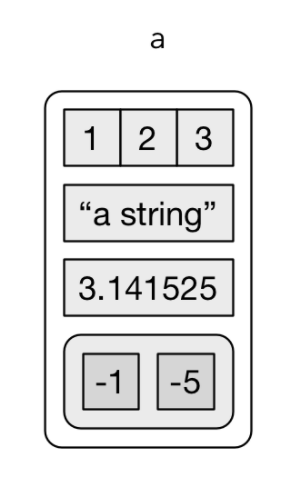
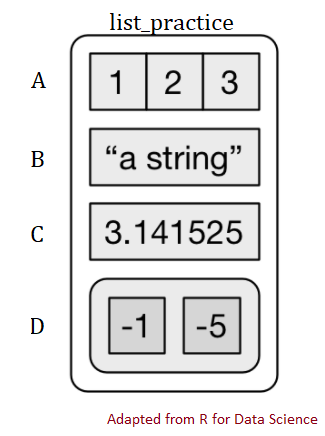
image fixes

Changed region(s): [[0.0891, 0.0298, 0.8614, 0.9243], [0.3267, 0.9541, 0.9802, 0.9839]]

diff --git a/Introduction-to-Map-Functions-in-R.html b/Introduction-to-Map-Functions-in-R.html
@@ -4,7 +4,7 @@
   <meta charset="utf-8">
   <meta name="generator" content="pandoc">
   <meta name="author" content="AS d’Urso" />
-  <meta name="dcterms.date" content="2021-04-19" />
+  <meta name="dcterms.date" content="2021-04-20" />
   <title>Introduction to Map Functions</title>
   <meta name="apple-mobile-web-app-capable" content="yes">
   <meta name="apple-mobile-web-app-status-bar-style" content="black-translucent">
@@ -519,7 +519,7 @@ document.getElementsByTagName('head')[0].appendChild(style);
 <section>
     <h1 class="title">Introduction to Map Functions</h1>
     <h2 class="author">AS d’Urso</h2>
-    <h3 class="date"><small>2021-04-19</small></h3>
+    <h3 class="date"><small>2021-04-20</small></h3>
 </section>
 
 <section id="introduction" class="title-slide slide level1">
@@ -560,14 +560,16 @@ document.getElementsByTagName('head')[0].appendChild(style);
 <span id="cb1-5"><a href="#cb1-5" aria-hidden="true" tabindex="-1"></a><span class="fu">class</span>(char_vec)</span>
 <span id="cb1-6"><a href="#cb1-6" aria-hidden="true" tabindex="-1"></a><span class="do">## [1] &quot;character&quot;</span></span></code></pre></div>
 <ul>
-<li class="fragment">But what if we mix the type of data in a vector?</li>
+<li class="fragment">But what if we include two different classes in one atomic vector?</li>
 </ul>
 </section>
 <section id="homogeneous-1" class="slide level2">
 <h2>Homogeneous</h2>
-<p>Mixing types of data yeild coercive results.</p>
-<div class="sourceCode" id="cb2"><pre class="sourceCode r"><code class="sourceCode r"><span id="cb2-1"><a href="#cb2-1" aria-hidden="true" tabindex="-1"></a><span class="fu">class</span>(<span class="fu">c</span>(<span class="st">&quot;a&quot;</span>, <span class="dv">1</span>, <span class="st">&quot;b&quot;</span>, <span class="dv">2</span>))</span>
-<span id="cb2-2"><a href="#cb2-2" aria-hidden="true" tabindex="-1"></a><span class="do">## [1] &quot;character&quot;</span></span></code></pre></div>
+<p>Mixing types of data yield coercive results.</p>
+<div class="sourceCode" id="cb2"><pre class="sourceCode r"><code class="sourceCode r"><span id="cb2-1"><a href="#cb2-1" aria-hidden="true" tabindex="-1"></a><span class="fu">c</span>(<span class="st">&quot;a&quot;</span>, <span class="dv">1</span>, <span class="st">&quot;b&quot;</span>, <span class="dv">2</span>)</span>
+<span id="cb2-2"><a href="#cb2-2" aria-hidden="true" tabindex="-1"></a><span class="do">## [1] &quot;a&quot; &quot;1&quot; &quot;b&quot; &quot;2&quot;</span></span>
+<span id="cb2-3"><a href="#cb2-3" aria-hidden="true" tabindex="-1"></a><span class="fu">class</span>(<span class="fu">c</span>(<span class="st">&quot;a&quot;</span>, <span class="dv">1</span>, <span class="st">&quot;b&quot;</span>, <span class="dv">2</span>))</span>
+<span id="cb2-4"><a href="#cb2-4" aria-hidden="true" tabindex="-1"></a><span class="do">## [1] &quot;character&quot;</span></span></code></pre></div>
 <ul>
 <li class="fragment">The vector is stored as a character vector</li>
 <li class="fragment">… <em>but why?</em></li>
@@ -666,9 +668,6 @@ document.getElementsByTagName('head')[0].appendChild(style);
 <span id="cb15-7"><a href="#cb15-7" aria-hidden="true" tabindex="-1"></a><span class="do">## </span></span>
 <span id="cb15-8"><a href="#cb15-8" aria-hidden="true" tabindex="-1"></a><span class="do">## [[3]]</span></span>
 <span id="cb15-9"><a href="#cb15-9" aria-hidden="true" tabindex="-1"></a><span class="do">## [1] 3</span></span></code></pre></div>
-<ul>
-<li class="fragment"><em>Practice: Try making a few lists of your own.</em></li>
-</ul>
 </section>
 <section id="lists-1" class="slide level2" data-transition="none-out">
 <h2 data-transition="none-out">Lists</h2>
@@ -693,12 +692,18 @@ document.getElementsByTagName('head')[0].appendChild(style);
 <aside class="notes">
 As you can see with this example, we can have different data classes and different lengths
 </aside>
+<ul>
+<li class="fragment"><em>Practice: Try making a few lists of your own.</em></li>
+</ul>
 </section>
 <section id="lists-structure" class="slide level2">
 <h2>Lists Structure</h2>
-<div class="sourceCode" id="cb18"><pre class="sourceCode r"><code class="sourceCode r"><span id="cb18-1"><a href="#cb18-1" aria-hidden="true" tabindex="-1"></a>a <span class="ot">&lt;-</span> <span class="fu">list</span>(<span class="at">a =</span> <span class="dv">1</span><span class="sc">:</span><span class="dv">3</span>, <span class="at">b =</span> <span class="st">&quot;a string&quot;</span>, <span class="at">c =</span> pi, <span class="at">d =</span> <span class="fu">list</span>(<span class="sc">-</span><span class="dv">1</span>, <span class="sc">-</span><span class="dv">5</span>))</span></code></pre></div>
+<div class="sourceCode" id="cb18"><pre class="sourceCode r"><code class="sourceCode r"><span id="cb18-1"><a href="#cb18-1" aria-hidden="true" tabindex="-1"></a>list_practice <span class="ot">&lt;-</span> <span class="fu">list</span>(<span class="at">a =</span> <span class="dv">1</span><span class="sc">:</span><span class="dv">3</span>, </span>
+<span id="cb18-2"><a href="#cb18-2" aria-hidden="true" tabindex="-1"></a>                      <span class="at">b =</span> <span class="st">&quot;a string&quot;</span>, </span>
+<span id="cb18-3"><a href="#cb18-3" aria-hidden="true" tabindex="-1"></a>                      <span class="at">c =</span> pi, </span>
+<span id="cb18-4"><a href="#cb18-4" aria-hidden="true" tabindex="-1"></a>                      <span class="at">d =</span> <span class="fu">list</span>(<span class="sc">-</span><span class="dv">1</span>, <span class="sc">-</span><span class="dv">5</span>))</span></code></pre></div>
 <center>
-<img data-src="Figures/a.png" alt="a" />
+<img data-src="Figures/a.png" width="300" alt="a" />
 </center>
 </section>
 <section id="indexing-lists" class="slide level2">
@@ -712,12 +717,12 @@ As you can see with this example, we can have different data classes and differe
 <section id="single-bracket" class="slide level2" data-transition="none-out">
 <h2 data-transition="none-out">Single bracket</h2>
 <p>Extracts a sub-list</p>
-<div class="sourceCode" id="cb19"><pre class="sourceCode r"><code class="sourceCode r"><span id="cb19-1"><a href="#cb19-1" aria-hidden="true" tabindex="-1"></a><span class="fu">str</span>(a[<span class="dv">1</span><span class="sc">:</span><span class="dv">2</span>])</span></code></pre></div>
+<div class="sourceCode" id="cb19"><pre class="sourceCode r"><code class="sourceCode r"><span id="cb19-1"><a href="#cb19-1" aria-hidden="true" tabindex="-1"></a><span class="fu">str</span>(list_practice[<span class="dv">1</span><span class="sc">:</span><span class="dv">2</span>])</span></code></pre></div>
 </section>
 <section id="single-bracket-1" class="slide level2" data-transition="none-in">
 <h2 data-transition="none-in">Single bracket</h2>
 <p>Extracts a sub-list</p>
-<div class="sourceCode" id="cb20"><pre class="sourceCode r"><code class="sourceCode r"><span id="cb20-1"><a href="#cb20-1" aria-hidden="true" tabindex="-1"></a><span class="fu">str</span>(a[<span class="dv">1</span><span class="sc">:</span><span class="dv">2</span>])</span>
+<div class="sourceCode" id="cb20"><pre class="sourceCode r"><code class="sourceCode r"><span id="cb20-1"><a href="#cb20-1" aria-hidden="true" tabindex="-1"></a><span class="fu">str</span>(list_practice[<span class="dv">1</span><span class="sc">:</span><span class="dv">2</span>])</span>
 <span id="cb20-2"><a href="#cb20-2" aria-hidden="true" tabindex="-1"></a><span class="do">## List of 2</span></span>
 <span id="cb20-3"><a href="#cb20-3" aria-hidden="true" tabindex="-1"></a><span class="do">##  $ a: int [1:3] 1 2 3</span></span>
 <span id="cb20-4"><a href="#cb20-4" aria-hidden="true" tabindex="-1"></a><span class="do">##  $ b: chr &quot;a string&quot;</span></span></code></pre></div>
@@ -728,12 +733,12 @@ As you can see with this example, we can have different data classes and differe
 <section id="double-bracket" class="slide level2" data-transition="none-out">
 <h2 data-transition="none-out">Double bracket</h2>
 <p>Extracts component from list</p>
-<div class="sourceCode" id="cb21"><pre class="sourceCode r"><code class="sourceCode r"><span id="cb21-1"><a href="#cb21-1" aria-hidden="true" tabindex="-1"></a><span class="fu">str</span>(a[[<span class="dv">1</span>]])</span></code></pre></div>
+<div class="sourceCode" id="cb21"><pre class="sourceCode r"><code class="sourceCode r"><span id="cb21-1"><a href="#cb21-1" aria-hidden="true" tabindex="-1"></a><span class="fu">str</span>(list_practice[[<span class="dv">1</span>]])</span></code></pre></div>
 </section>
 <section id="double-bracket-1" class="slide level2" data-transition="none-in">
 <h2 data-transition="none-in">Double bracket</h2>
 <p>Extracts component from list</p>
-<div class="sourceCode" id="cb22"><pre class="sourceCode r"><code class="sourceCode r"><span id="cb22-1"><a href="#cb22-1" aria-hidden="true" tabindex="-1"></a><span class="fu">str</span>(a[[<span class="dv">1</span>]])</span>
+<div class="sourceCode" id="cb22"><pre class="sourceCode r"><code class="sourceCode r"><span id="cb22-1"><a href="#cb22-1" aria-hidden="true" tabindex="-1"></a><span class="fu">str</span>(list_practice[[<span class="dv">1</span>]])</span>
 <span id="cb22-2"><a href="#cb22-2" aria-hidden="true" tabindex="-1"></a><span class="do">##  int [1:3] 1 2 3</span></span></code></pre></div>
 <ul>
 <li class="fragment">It removes a level of hierarchy</li>
@@ -742,21 +747,21 @@ As you can see with this example, we can have different data classes and differe
 <section id="named-element" class="slide level2" data-transition="none-out">
 <h2 data-transition="none-out">Named element</h2>
 <p>It works similarly to <code>[[]]</code>, but you must use the name of the element you are interested in (without quotation marks)</p>
-<div class="sourceCode" id="cb23"><pre class="sourceCode r"><code class="sourceCode r"><span id="cb23-1"><a href="#cb23-1" aria-hidden="true" tabindex="-1"></a>a<span class="sc">$</span>b</span>
+<div class="sourceCode" id="cb23"><pre class="sourceCode r"><code class="sourceCode r"><span id="cb23-1"><a href="#cb23-1" aria-hidden="true" tabindex="-1"></a>list_practice<span class="sc">$</span>b</span>
 <span id="cb23-2"><a href="#cb23-2" aria-hidden="true" tabindex="-1"></a><span class="do">## [1] &quot;a string&quot;</span></span>
-<span id="cb23-3"><a href="#cb23-3" aria-hidden="true" tabindex="-1"></a>a[[<span class="st">&quot;b&quot;</span>]]</span>
+<span id="cb23-3"><a href="#cb23-3" aria-hidden="true" tabindex="-1"></a>list_practice[[<span class="st">&quot;b&quot;</span>]]</span>
 <span id="cb23-4"><a href="#cb23-4" aria-hidden="true" tabindex="-1"></a><span class="do">## [1] &quot;a string&quot;</span></span></code></pre></div>
 </section>
 <section id="practice-5" class="slide level2" data-transition="none-out">
 <h2 data-transition="none-out">Practice</h2>
-<p>In our list, <code>a</code>, how would we subset to the first element in <code>d</code>?</p>
+<p>In our list, <code>list_practice</code>, how would we subset to the first element in <code>d</code>?</p>
 </section>
 <section id="practice-6" class="slide level2" data-transition="none-in">
 <h2 data-transition="none-in">Practice</h2>
-<p>In our list, <code>a</code>, how would we subset to the first element in <code>d</code>?</p>
-<div class="sourceCode" id="cb24"><pre class="sourceCode r"><code class="sourceCode r"><span id="cb24-1"><a href="#cb24-1" aria-hidden="true" tabindex="-1"></a>a<span class="sc">$</span>d[[<span class="dv">1</span>]]</span>
+<p>In our list, <code>list_practice</code>, how would we subset to the first element in <code>d</code>?</p>
+<div class="sourceCode" id="cb24"><pre class="sourceCode r"><code class="sourceCode r"><span id="cb24-1"><a href="#cb24-1" aria-hidden="true" tabindex="-1"></a>list_practice<span class="sc">$</span>d[[<span class="dv">1</span>]]</span>
 <span id="cb24-2"><a href="#cb24-2" aria-hidden="true" tabindex="-1"></a><span class="do">## [1] -1</span></span>
-<span id="cb24-3"><a href="#cb24-3" aria-hidden="true" tabindex="-1"></a>a[[<span class="dv">4</span>]][[<span class="dv">1</span>]]</span>
+<span id="cb24-3"><a href="#cb24-3" aria-hidden="true" tabindex="-1"></a>list_practice[[<span class="dv">4</span>]][[<span class="dv">1</span>]]</span>
 <span id="cb24-4"><a href="#cb24-4" aria-hidden="true" tabindex="-1"></a><span class="do">## [1] -1</span></span></code></pre></div>
 </section>
 <section id="indexing-lists-1" class="slide level2">
@@ -858,7 +863,10 @@ As you can see with this example, we can have different data classes and differe
 <li>Add two to each number</li>
 </ol>
 <p>Put last number in <code>$c</code> in the chat</p>
-<div class="sourceCode" id="cb33"><pre class="sourceCode r"><code class="sourceCode r"><span id="cb33-1"><a href="#cb33-1" aria-hidden="true" tabindex="-1"></a>map_practice <span class="ot">&lt;-</span> <span class="fu">list</span>(<span class="at">a =</span> <span class="fu">c</span>(<span class="dv">1</span><span class="sc">:</span><span class="dv">4</span>), <span class="at">b =</span> <span class="fu">c</span>(<span class="dv">5</span>, <span class="dv">7</span>, <span class="dv">8</span>), <span class="at">c =</span> <span class="fu">c</span>(<span class="dv">1902</span>, <span class="dv">1788</span>, <span class="dv">892</span>))</span></code></pre></div>
+<div class="sourceCode" id="cb33"><pre class="sourceCode r"><code class="sourceCode r"><span id="cb33-1"><a href="#cb33-1" aria-hidden="true" tabindex="-1"></a>map_practice <span class="ot">&lt;-</span> </span>
+<span id="cb33-2"><a href="#cb33-2" aria-hidden="true" tabindex="-1"></a>  <span class="fu">list</span>(<span class="at">a =</span> <span class="fu">c</span>(<span class="dv">1</span><span class="sc">:</span><span class="dv">4</span>), </span>
+<span id="cb33-3"><a href="#cb33-3" aria-hidden="true" tabindex="-1"></a>       <span class="at">b =</span> <span class="fu">c</span>(<span class="dv">5</span>, <span class="dv">7</span>, <span class="dv">8</span>), </span>
+<span id="cb33-4"><a href="#cb33-4" aria-hidden="true" tabindex="-1"></a>       <span class="at">c =</span> <span class="fu">c</span>(<span class="dv">1902</span>, <span class="dv">1788</span>, <span class="dv">892</span>))</span></code></pre></div>
 </section>
 <section id="practice-8" class="slide level2" data-transition="none-in">
 <h2 data-transition="none-in">Practice</h2>
@@ -868,29 +876,33 @@ As you can see with this example, we can have different data classes and differe
 <li>Add two to each number</li>
 </ol>
 <p>Put last number in <code>$c</code> in the chat</p>
-<div class="sourceCode" id="cb34"><pre class="sourceCode r"><code class="sourceCode r"><span id="cb34-1"><a href="#cb34-1" aria-hidden="true" tabindex="-1"></a>map_practice <span class="ot">&lt;-</span> <span class="fu">list</span>(<span class="at">a =</span> <span class="fu">c</span>(<span class="dv">1</span><span class="sc">:</span><span class="dv">4</span>), <span class="at">b =</span> <span class="fu">c</span>(<span class="dv">5</span>, <span class="dv">7</span>, <span class="dv">8</span>), <span class="at">c =</span> <span class="fu">c</span>(<span class="dv">1902</span>, <span class="dv">1788</span>, <span class="dv">892</span>))</span>
+<div class="sourceCode" id="cb34"><pre class="sourceCode r"><code class="sourceCode r"><span id="cb34-1"><a href="#cb34-1" aria-hidden="true" tabindex="-1"></a>map_practice2 <span class="ot">&lt;-</span> <span class="fu">map</span>(map_practice, sqrt)</span>
 <span id="cb34-2"><a href="#cb34-2" aria-hidden="true" tabindex="-1"></a></span>
-<span id="cb34-3"><a href="#cb34-3" aria-hidden="true" tabindex="-1"></a>map_practice2 <span class="ot">&lt;-</span> <span class="fu">map</span>(map_practice, sqrt)</span>
-<span id="cb34-4"><a href="#cb34-4" aria-hidden="true" tabindex="-1"></a></span>
-<span id="cb34-5"><a href="#cb34-5" aria-hidden="true" tabindex="-1"></a><span class="fu">map</span>(map_practice2, <span class="sc">~</span>.<span class="sc">+</span><span class="dv">2</span>)</span>
-<span id="cb34-6"><a href="#cb34-6" aria-hidden="true" tabindex="-1"></a><span class="do">## $a</span></span>
-<span id="cb34-7"><a href="#cb34-7" aria-hidden="true" tabindex="-1"></a><span class="do">## [1] 3.000000 3.414214 3.732051 4.000000</span></span>
-<span id="cb34-8"><a href="#cb34-8" aria-hidden="true" tabindex="-1"></a><span class="do">## </span></span>
-<span id="cb34-9"><a href="#cb34-9" aria-hidden="true" tabindex="-1"></a><span class="do">## $b</span></span>
-<span id="cb34-10"><a href="#cb34-10" aria-hidden="true" tabindex="-1"></a><span class="do">## [1] 4.236068 4.645751 4.828427</span></span>
-<span id="cb34-11"><a href="#cb34-11" aria-hidden="true" tabindex="-1"></a><span class="do">## </span></span>
-<span id="cb34-12"><a href="#cb34-12" aria-hidden="true" tabindex="-1"></a><span class="do">## $c</span></span>
-<span id="cb34-13"><a href="#cb34-13" aria-hidden="true" tabindex="-1"></a><span class="do">## [1] 45.61192 44.28475 31.86637</span></span></code></pre></div>
+<span id="cb34-3"><a href="#cb34-3" aria-hidden="true" tabindex="-1"></a><span class="fu">map</span>(map_practice2, <span class="sc">~</span>.<span class="sc">+</span><span class="dv">2</span>)</span>
+<span id="cb34-4"><a href="#cb34-4" aria-hidden="true" tabindex="-1"></a><span class="do">## $a</span></span>
+<span id="cb34-5"><a href="#cb34-5" aria-hidden="true" tabindex="-1"></a><span class="do">## [1] 3.000000 3.414214 3.732051 4.000000</span></span>
+<span id="cb34-6"><a href="#cb34-6" aria-hidden="true" tabindex="-1"></a><span class="do">## </span></span>
+<span id="cb34-7"><a href="#cb34-7" aria-hidden="true" tabindex="-1"></a><span class="do">## $b</span></span>
+<span id="cb34-8"><a href="#cb34-8" aria-hidden="true" tabindex="-1"></a><span class="do">## [1] 4.236068 4.645751 4.828427</span></span>
+<span id="cb34-9"><a href="#cb34-9" aria-hidden="true" tabindex="-1"></a><span class="do">## </span></span>
+<span id="cb34-10"><a href="#cb34-10" aria-hidden="true" tabindex="-1"></a><span class="do">## $c</span></span>
+<span id="cb34-11"><a href="#cb34-11" aria-hidden="true" tabindex="-1"></a><span class="do">## [1] 45.61192 44.28475 31.86637</span></span></code></pre></div>
 </section>
 <section id="map_if" class="slide level2" data-transition="none-out">
 <h2 data-transition="none-out"><code>map_if</code></h2>
-<div class="sourceCode" id="cb35"><pre class="sourceCode r"><code class="sourceCode r"><span id="cb35-1"><a href="#cb35-1" aria-hidden="true" tabindex="-1"></a>map_practice3 <span class="ot">&lt;-</span> <span class="fu">list</span>(<span class="at">a =</span> <span class="fu">c</span>(<span class="dv">1</span><span class="sc">:</span><span class="dv">4</span>), <span class="at">b =</span> <span class="fu">c</span>(<span class="dv">5</span>, <span class="dv">7</span>, <span class="dv">8</span>), <span class="at">c =</span> <span class="fu">c</span>(<span class="st">&quot;1902&quot;</span>, <span class="st">&quot;1788&quot;</span>, <span class="st">&quot;892&quot;</span>))</span></code></pre></div>
+<div class="sourceCode" id="cb35"><pre class="sourceCode r"><code class="sourceCode r"><span id="cb35-1"><a href="#cb35-1" aria-hidden="true" tabindex="-1"></a>map_practice3 <span class="ot">&lt;-</span> </span>
+<span id="cb35-2"><a href="#cb35-2" aria-hidden="true" tabindex="-1"></a>  <span class="fu">list</span>(<span class="at">a =</span> <span class="fu">c</span>(<span class="dv">1</span><span class="sc">:</span><span class="dv">4</span>), </span>
+<span id="cb35-3"><a href="#cb35-3" aria-hidden="true" tabindex="-1"></a>       <span class="at">b =</span> <span class="fu">c</span>(<span class="dv">5</span>, <span class="dv">7</span>, <span class="dv">8</span>), </span>
+<span id="cb35-4"><a href="#cb35-4" aria-hidden="true" tabindex="-1"></a>       <span class="at">c =</span> <span class="fu">c</span>(<span class="st">&quot;1902&quot;</span>, <span class="st">&quot;1788&quot;</span>, <span class="st">&quot;892&quot;</span>))</span></code></pre></div>
 </section>
 <section id="map_if-1" class="slide level2" data-transition="none-in">
 <h2 data-transition="none-in"><code>map_if</code></h2>
-<div class="sourceCode" id="cb36"><pre class="sourceCode r"><code class="sourceCode r"><span id="cb36-1"><a href="#cb36-1" aria-hidden="true" tabindex="-1"></a>map_practice3 <span class="ot">&lt;-</span> <span class="fu">list</span>(<span class="at">a =</span> <span class="fu">c</span>(<span class="dv">1</span><span class="sc">:</span><span class="dv">4</span>), <span class="at">b =</span> <span class="fu">c</span>(<span class="dv">5</span>, <span class="dv">7</span>, <span class="dv">8</span>), <span class="at">c =</span> <span class="fu">c</span>(<span class="st">&quot;1902&quot;</span>, <span class="st">&quot;1788&quot;</span>, <span class="st">&quot;892&quot;</span>))</span>
-<span id="cb36-2"><a href="#cb36-2" aria-hidden="true" tabindex="-1"></a></span>
-<span id="cb36-3"><a href="#cb36-3" aria-hidden="true" tabindex="-1"></a>(map_int <span class="ot">&lt;-</span> <span class="fu">map_if</span>(map_practice3, is.character, as.numeric))</span></code></pre></div>
+<div class="sourceCode" id="cb36"><pre class="sourceCode r"><code class="sourceCode r"><span id="cb36-1"><a href="#cb36-1" aria-hidden="true" tabindex="-1"></a>map_practice3 <span class="ot">&lt;-</span> </span>
+<span id="cb36-2"><a href="#cb36-2" aria-hidden="true" tabindex="-1"></a>  <span class="fu">list</span>(<span class="at">a =</span> <span class="fu">c</span>(<span class="dv">1</span><span class="sc">:</span><span class="dv">4</span>), </span>
+<span id="cb36-3"><a href="#cb36-3" aria-hidden="true" tabindex="-1"></a>       <span class="at">b =</span> <span class="fu">c</span>(<span class="dv">5</span>, <span class="dv">7</span>, <span class="dv">8</span>), </span>
+<span id="cb36-4"><a href="#cb36-4" aria-hidden="true" tabindex="-1"></a>       <span class="at">c =</span> <span class="fu">c</span>(<span class="st">&quot;1902&quot;</span>, <span class="st">&quot;1788&quot;</span>, <span class="st">&quot;892&quot;</span>))</span>
+<span id="cb36-5"><a href="#cb36-5" aria-hidden="true" tabindex="-1"></a></span>
+<span id="cb36-6"><a href="#cb36-6" aria-hidden="true" tabindex="-1"></a>(map_int <span class="ot">&lt;-</span> <span class="fu">map_if</span>(map_practice3, is.character, as.numeric))</span></code></pre></div>
 <pre><code>## $a
 ## [1] 1 2 3 4
 ## 
@@ -902,35 +914,43 @@ As you can see with this example, we can have different data classes and differe
 </section>
 <section id="map_at" class="slide level2" data-transition="none-out">
 <h2 data-transition="none-out"><code>map_at</code></h2>
-<div class="sourceCode" id="cb38"><pre class="sourceCode r"><code class="sourceCode r"><span id="cb38-1"><a href="#cb38-1" aria-hidden="true" tabindex="-1"></a>(map_practice4 <span class="ot">&lt;-</span> <span class="fu">list</span>(<span class="at">a =</span> <span class="fu">c</span>(<span class="dv">1</span><span class="sc">:</span><span class="dv">4</span>), <span class="at">b =</span> <span class="fu">c</span>(<span class="dv">5</span>, <span class="dv">7</span>, <span class="dv">8</span>), <span class="at">c =</span> <span class="fu">c</span>(<span class="st">&quot;1902&quot;</span>, <span class="st">&quot;1788&quot;</span>, <span class="st">&quot;892&quot;</span>), <span class="at">d =</span> <span class="fu">c</span>(<span class="st">&quot;cheese&quot;</span>, <span class="st">&quot;bread&quot;</span>, <span class="st">&quot;tomato&quot;</span>, <span class="st">&quot;buscuit&quot;</span>)))</span>
-<span id="cb38-2"><a href="#cb38-2" aria-hidden="true" tabindex="-1"></a><span class="do">## $a</span></span>
-<span id="cb38-3"><a href="#cb38-3" aria-hidden="true" tabindex="-1"></a><span class="do">## [1] 1 2 3 4</span></span>
-<span id="cb38-4"><a href="#cb38-4" aria-hidden="true" tabindex="-1"></a><span class="do">## </span></span>
-<span id="cb38-5"><a href="#cb38-5" aria-hidden="true" tabindex="-1"></a><span class="do">## $b</span></span>
-<span id="cb38-6"><a href="#cb38-6" aria-hidden="true" tabindex="-1"></a><span class="do">## [1] 5 7 8</span></span>
-<span id="cb38-7"><a href="#cb38-7" aria-hidden="true" tabindex="-1"></a><span class="do">## </span></span>
-<span id="cb38-8"><a href="#cb38-8" aria-hidden="true" tabindex="-1"></a><span class="do">## $c</span></span>
-<span id="cb38-9"><a href="#cb38-9" aria-hidden="true" tabindex="-1"></a><span class="do">## [1] &quot;1902&quot; &quot;1788&quot; &quot;892&quot; </span></span>
-<span id="cb38-10"><a href="#cb38-10" aria-hidden="true" tabindex="-1"></a><span class="do">## </span></span>
-<span id="cb38-11"><a href="#cb38-11" aria-hidden="true" tabindex="-1"></a><span class="do">## $d</span></span>
-<span id="cb38-12"><a href="#cb38-12" aria-hidden="true" tabindex="-1"></a><span class="do">## [1] &quot;cheese&quot;  &quot;bread&quot;   &quot;tomato&quot;  &quot;buscuit&quot;</span></span></code></pre></div>
+<div class="sourceCode" id="cb38"><pre class="sourceCode r"><code class="sourceCode r"><span id="cb38-1"><a href="#cb38-1" aria-hidden="true" tabindex="-1"></a>(map_practice4 <span class="ot">&lt;-</span> </span>
+<span id="cb38-2"><a href="#cb38-2" aria-hidden="true" tabindex="-1"></a>   <span class="fu">list</span>(<span class="at">a =</span> <span class="fu">c</span>(<span class="dv">1</span><span class="sc">:</span><span class="dv">4</span>), </span>
+<span id="cb38-3"><a href="#cb38-3" aria-hidden="true" tabindex="-1"></a>        <span class="at">b =</span> <span class="fu">c</span>(<span class="dv">5</span>, <span class="dv">7</span>, <span class="dv">8</span>), </span>
+<span id="cb38-4"><a href="#cb38-4" aria-hidden="true" tabindex="-1"></a>        <span class="at">c =</span> <span class="fu">c</span>(<span class="st">&quot;1902&quot;</span>, <span class="st">&quot;1788&quot;</span>, <span class="st">&quot;892&quot;</span>), </span>
+<span id="cb38-5"><a href="#cb38-5" aria-hidden="true" tabindex="-1"></a>        <span class="at">d =</span> <span class="fu">c</span>(<span class="st">&quot;cheese&quot;</span>, <span class="st">&quot;bread&quot;</span>, <span class="st">&quot;tomato&quot;</span>, <span class="st">&quot;buscuit&quot;</span>)))</span>
+<span id="cb38-6"><a href="#cb38-6" aria-hidden="true" tabindex="-1"></a><span class="do">## $a</span></span>
+<span id="cb38-7"><a href="#cb38-7" aria-hidden="true" tabindex="-1"></a><span class="do">## [1] 1 2 3 4</span></span>
+<span id="cb38-8"><a href="#cb38-8" aria-hidden="true" tabindex="-1"></a><span class="do">## </span></span>
+<span id="cb38-9"><a href="#cb38-9" aria-hidden="true" tabindex="-1"></a><span class="do">## $b</span></span>
+<span id="cb38-10"><a href="#cb38-10" aria-hidden="true" tabindex="-1"></a><span class="do">## [1] 5 7 8</span></span>
+<span id="cb38-11"><a href="#cb38-11" aria-hidden="true" tabindex="-1"></a><span class="do">## </span></span>
+<span id="cb38-12"><a href="#cb38-12" aria-hidden="true" tabindex="-1"></a><span class="do">## $c</span></span>
+<span id="cb38-13"><a href="#cb38-13" aria-hidden="true" tabindex="-1"></a><span class="do">## [1] &quot;1902&quot; &quot;1788&quot; &quot;892&quot; </span></span>
+<span id="cb38-14"><a href="#cb38-14" aria-hidden="true" tabindex="-1"></a><span class="do">## </span></span>
+<span id="cb38-15"><a href="#cb38-15" aria-hidden="true" tabindex="-1"></a><span class="do">## $d</span></span>
+<span id="cb38-16"><a href="#cb38-16" aria-hidden="true" tabindex="-1"></a><span class="do">## [1] &quot;cheese&quot;  &quot;bread&quot;   &quot;tomato&quot;  &quot;buscuit&quot;</span></span></code></pre></div>
 </section>
 <section id="map_at-1" class="slide level2" data-transition="none-in">
 <h2 data-transition="none-in"><code>map_at</code></h2>
-<div class="sourceCode" id="cb39"><pre class="sourceCode r"><code class="sourceCode r"><span id="cb39-1"><a href="#cb39-1" aria-hidden="true" tabindex="-1"></a>map_practice4 <span class="ot">&lt;-</span> <span class="fu">list</span>(<span class="at">a =</span> <span class="fu">c</span>(<span class="dv">1</span><span class="sc">:</span><span class="dv">4</span>), <span class="at">b =</span> <span class="fu">c</span>(<span class="dv">5</span>, <span class="dv">7</span>, <span class="dv">8</span>), <span class="at">c =</span> <span class="fu">c</span>(<span class="st">&quot;1902&quot;</span>, <span class="st">&quot;1788&quot;</span>, <span class="st">&quot;892&quot;</span>), <span class="at">d =</span> <span class="fu">c</span>(<span class="st">&quot;cheese&quot;</span>, <span class="st">&quot;bread&quot;</span>, <span class="st">&quot;tomato&quot;</span>, <span class="st">&quot;buscuit&quot;</span>))</span>
-<span id="cb39-2"><a href="#cb39-2" aria-hidden="true" tabindex="-1"></a></span>
-<span id="cb39-3"><a href="#cb39-3" aria-hidden="true" tabindex="-1"></a><span class="fu">map_at</span>(map_practice4, <span class="st">&quot;c&quot;</span>, as.numeric)</span>
-<span id="cb39-4"><a href="#cb39-4" aria-hidden="true" tabindex="-1"></a><span class="do">## $a</span></span>
-<span id="cb39-5"><a href="#cb39-5" aria-hidden="true" tabindex="-1"></a><span class="do">## [1] 1 2 3 4</span></span>
-<span id="cb39-6"><a href="#cb39-6" aria-hidden="true" tabindex="-1"></a><span class="do">## </span></span>
-<span id="cb39-7"><a href="#cb39-7" aria-hidden="true" tabindex="-1"></a><span class="do">## $b</span></span>
-<span id="cb39-8"><a href="#cb39-8" aria-hidden="true" tabindex="-1"></a><span class="do">## [1] 5 7 8</span></span>
-<span id="cb39-9"><a href="#cb39-9" aria-hidden="true" tabindex="-1"></a><span class="do">## </span></span>
-<span id="cb39-10"><a href="#cb39-10" aria-hidden="true" tabindex="-1"></a><span class="do">## $c</span></span>
-<span id="cb39-11"><a href="#cb39-11" aria-hidden="true" tabindex="-1"></a><span class="do">## [1] 1902 1788  892</span></span>
-<span id="cb39-12"><a href="#cb39-12" aria-hidden="true" tabindex="-1"></a><span class="do">## </span></span>
-<span id="cb39-13"><a href="#cb39-13" aria-hidden="true" tabindex="-1"></a><span class="do">## $d</span></span>
-<span id="cb39-14"><a href="#cb39-14" aria-hidden="true" tabindex="-1"></a><span class="do">## [1] &quot;cheese&quot;  &quot;bread&quot;   &quot;tomato&quot;  &quot;buscuit&quot;</span></span></code></pre></div>
+<div class="sourceCode" id="cb39"><pre class="sourceCode r"><code class="sourceCode r"><span id="cb39-1"><a href="#cb39-1" aria-hidden="true" tabindex="-1"></a>map_practice4 <span class="ot">&lt;-</span> </span>
+<span id="cb39-2"><a href="#cb39-2" aria-hidden="true" tabindex="-1"></a>  <span class="fu">list</span>(<span class="at">a =</span> <span class="fu">c</span>(<span class="dv">1</span><span class="sc">:</span><span class="dv">4</span>), </span>
+<span id="cb39-3"><a href="#cb39-3" aria-hidden="true" tabindex="-1"></a>       <span class="at">b =</span> <span class="fu">c</span>(<span class="dv">5</span>, <span class="dv">7</span>, <span class="dv">8</span>), </span>
+<span id="cb39-4"><a href="#cb39-4" aria-hidden="true" tabindex="-1"></a>       <span class="at">c =</span> <span class="fu">c</span>(<span class="st">&quot;1902&quot;</span>, <span class="st">&quot;1788&quot;</span>, <span class="st">&quot;892&quot;</span>), </span>
+<span id="cb39-5"><a href="#cb39-5" aria-hidden="true" tabindex="-1"></a>       <span class="at">d =</span> <span class="fu">c</span>(<span class="st">&quot;cheese&quot;</span>, <span class="st">&quot;bread&quot;</span>, <span class="st">&quot;tomato&quot;</span>, <span class="st">&quot;buscuit&quot;</span>))</span>
+<span id="cb39-6"><a href="#cb39-6" aria-hidden="true" tabindex="-1"></a></span>
+<span id="cb39-7"><a href="#cb39-7" aria-hidden="true" tabindex="-1"></a><span class="fu">map_at</span>(map_practice4, <span class="st">&quot;c&quot;</span>, as.numeric)</span>
+<span id="cb39-8"><a href="#cb39-8" aria-hidden="true" tabindex="-1"></a><span class="do">## $a</span></span>
+<span id="cb39-9"><a href="#cb39-9" aria-hidden="true" tabindex="-1"></a><span class="do">## [1] 1 2 3 4</span></span>
+<span id="cb39-10"><a href="#cb39-10" aria-hidden="true" tabindex="-1"></a><span class="do">## </span></span>
+<span id="cb39-11"><a href="#cb39-11" aria-hidden="true" tabindex="-1"></a><span class="do">## $b</span></span>
+<span id="cb39-12"><a href="#cb39-12" aria-hidden="true" tabindex="-1"></a><span class="do">## [1] 5 7 8</span></span>
+<span id="cb39-13"><a href="#cb39-13" aria-hidden="true" tabindex="-1"></a><span class="do">## </span></span>
+<span id="cb39-14"><a href="#cb39-14" aria-hidden="true" tabindex="-1"></a><span class="do">## $c</span></span>
+<span id="cb39-15"><a href="#cb39-15" aria-hidden="true" tabindex="-1"></a><span class="do">## [1] 1902 1788  892</span></span>
+<span id="cb39-16"><a href="#cb39-16" aria-hidden="true" tabindex="-1"></a><span class="do">## </span></span>
+<span id="cb39-17"><a href="#cb39-17" aria-hidden="true" tabindex="-1"></a><span class="do">## $d</span></span>
+<span id="cb39-18"><a href="#cb39-18" aria-hidden="true" tabindex="-1"></a><span class="do">## [1] &quot;cheese&quot;  &quot;bread&quot;   &quot;tomato&quot;  &quot;buscuit&quot;</span></span></code></pre></div>
 </section>
 <section id="map2" class="slide level2">
 <h2><code>map2</code></h2>
